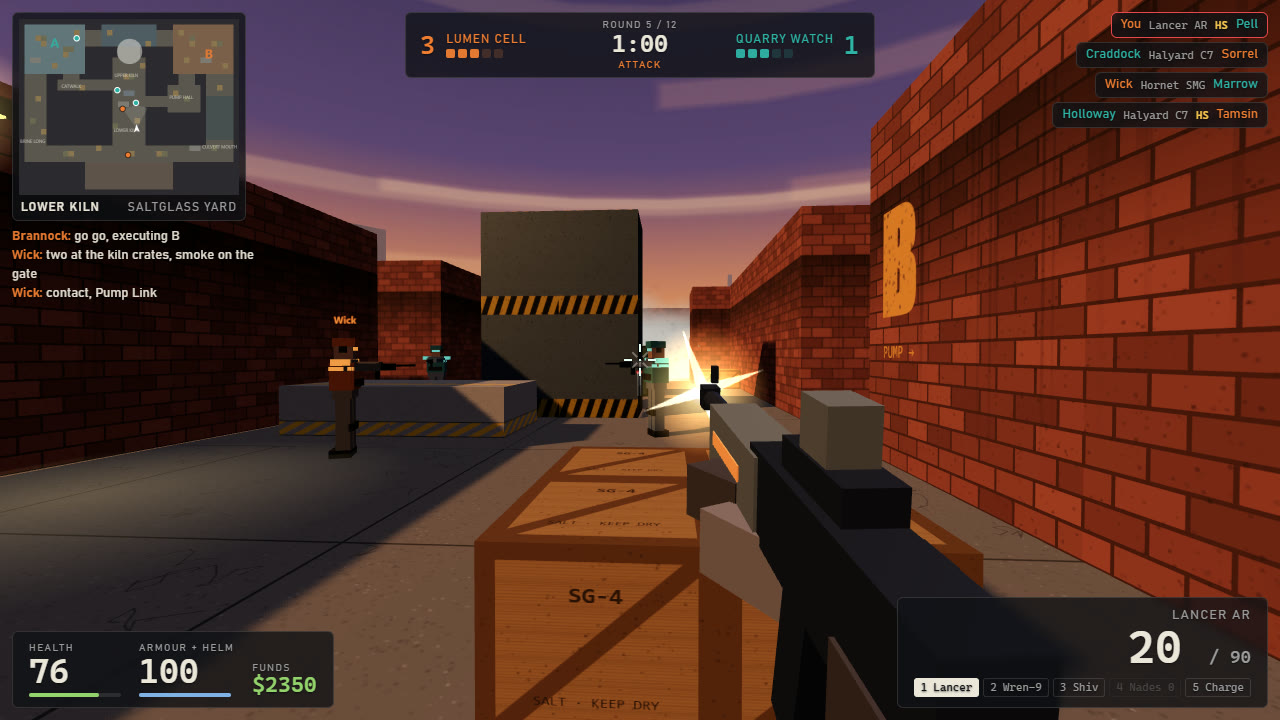
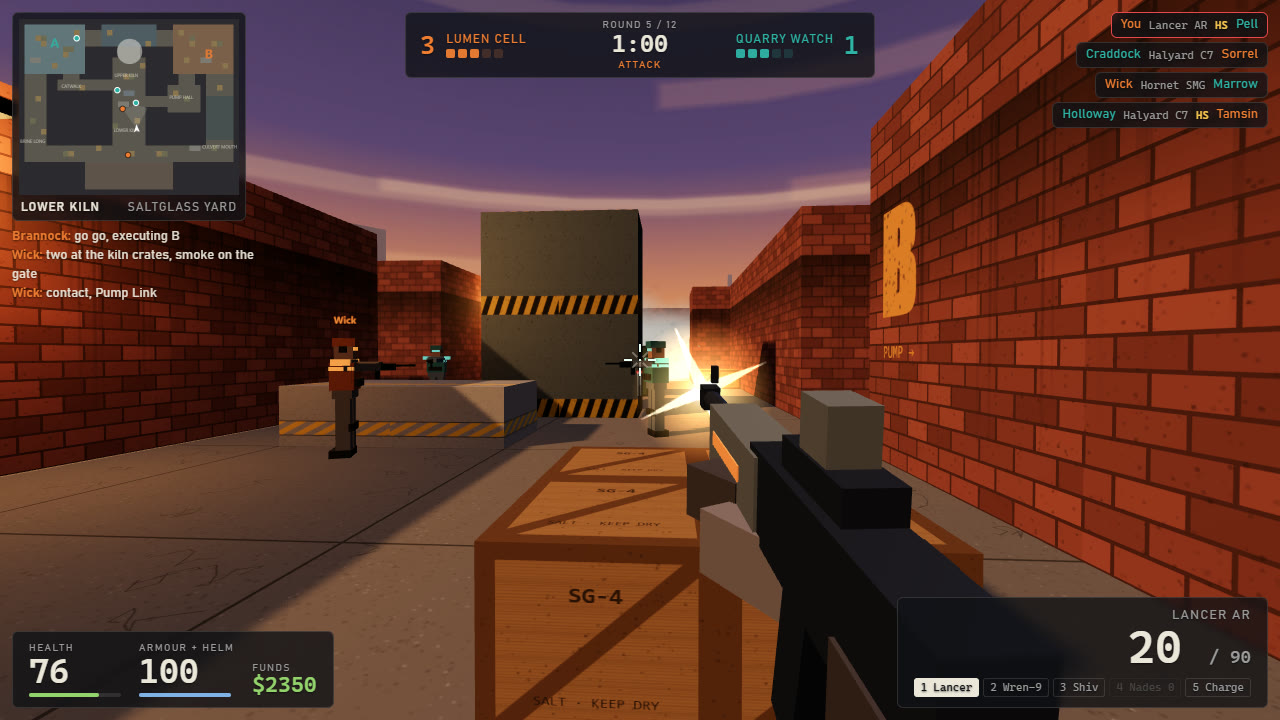
v6: v2's lighting with the later gameplay and code
Lamps are warm point lights again, shadows soft, every soldier part casts a shadow, as in v2,
which scored best; keeps side rifles, headshot stats, verdict, buy countdown, state.intel/plan
and the feedback module.

diff --git a/game/src/world/builder.js b/game/src/world/builder.js
@@ -96,7 +96,7 @@ export function buildWorld(scene, tex) {
   scene.add(group);
   addSigns(scene);
   addSiteMarks(scene);
-  const lamps = addLamps(scene, tex);
+  const lamps = addLamps(scene);
   addSkyline(scene, tex);
   return { group, lamps };
 }
@@ -133,13 +133,9 @@ function addSiteMarks(scene) {
   }
 }
 
-// Sodium lamps on brackets, mounted on the nearest wall to each lamp cell. Their light is baked:
-// a glowing bulb, a halo sprite and an additive pool on the floor below, so a dozen lamps cost
-// no per-pixel lighting (real point lights would multiply the shading cost of every surface).
-function addLamps(scene, tex) {
-  const haloMat = new THREE.SpriteMaterial({ map: tex.puff, color: PALETTE.sodium, blending: THREE.AdditiveBlending, transparent: true, opacity: 0.55, depthWrite: false });
-  const poolMat = new THREE.MeshBasicMaterial({ map: tex.puff, color: PALETTE.sodium, blending: THREE.AdditiveBlending, transparent: true, opacity: 0.28, depthWrite: false, polygonOffset: true, polygonOffsetFactor: -3 });
-  const poolGeo = new THREE.PlaneGeometry(7, 7).rotateX(-Math.PI / 2);
+// Sodium lamps on brackets, mounted on the nearest wall to each lamp cell, each a warm point
+// light that pools on the lane below it.
+function addLamps(scene) {
   const fixture = new THREE.MeshStandardMaterial({ color: 0x2a2c30, roughness: 0.6, metalness: 0.6 });
   const bulb = new THREE.MeshBasicMaterial({ color: PALETTE.sodium });
   const arm = new THREE.BoxGeometry(0.12, 0.12, 0.9);
@@ -162,14 +158,10 @@ function addLamps(scene, tex) {
     const a = new THREE.Mesh(arm, fixture); a.position.z = 0.45; g.add(a);
     const h = new THREE.Mesh(head, fixture); h.position.set(0, -0.05, 0.95); g.add(h);
     const b = new THREE.Mesh(glow, bulb); b.position.set(0, -0.15, 0.95); g.add(b);
-    const halo = new THREE.Sprite(haloMat);
-    halo.position.set(0, -0.2, 0.95);
-    halo.scale.set(1.6, 1.6, 1);
-    g.add(halo);
-    const pool = new THREE.Mesh(poolGeo, poolMat);
-    pool.position.set(0, -4.48, 2.2);
-    g.add(pool);
-    lights.push(g);
+    const light = new THREE.PointLight(PALETTE.sodium, 26, 15, 1.8);
+    light.position.set(0, -0.4, 1.0);
+    g.add(light);
+    lights.push(light);
     scene.add(g);
   }
   return lights;

diff --git a/game/src/render/soldiers.js b/game/src/render/soldiers.js
@@ -80,8 +80,7 @@ function buildSoldier(actor, mats) {
   const armR = new THREE.Mesh(GEO.arm, mats.fatigue); armR.position.set(0.2, -0.02, 0); armR.rotation.y = 0.2; arms.add(armR);
   const gun = new THREE.Group(); gun.position.set(0.06, -0.02, -0.05); arms.add(gun);
   gun.add(new THREE.Mesh(GEO.gun, mats.gun), new THREE.Mesh(GEO.barrel, mats.gun), new THREE.Mesh(GEO.mag, mats.gun));
-  // Only the big pieces cast shadows: the silhouette reads the same at a fraction of the cost.
-  for (const part of [legL.children[0], legR.children[0], chest.children[0], chest.children[1], head.children[0]]) part.castShadow = true;
+  root.traverse((o) => { if (o.isMesh) o.castShadow = true; });
 
   let tag = null;
   if (!actor.isPlayer) {

diff --git a/game/src/main.js b/game/src/main.js
@@ -51,7 +51,7 @@ const renderer = new THREE.WebGLRenderer({ antialias: true, powerPreference: 'hi
 renderer.setPixelRatio(Math.min(devicePixelRatio, 2));
 renderer.setSize(innerWidth, innerHeight);
 renderer.shadowMap.enabled = true;
-renderer.shadowMap.type = THREE.PCFShadowMap;
+renderer.shadowMap.type = THREE.PCFSoftShadowMap;
 renderer.toneMapping = THREE.ACESFilmicToneMapping;
 renderer.toneMappingExposure = 1.05;
 renderer.autoClear = false;
